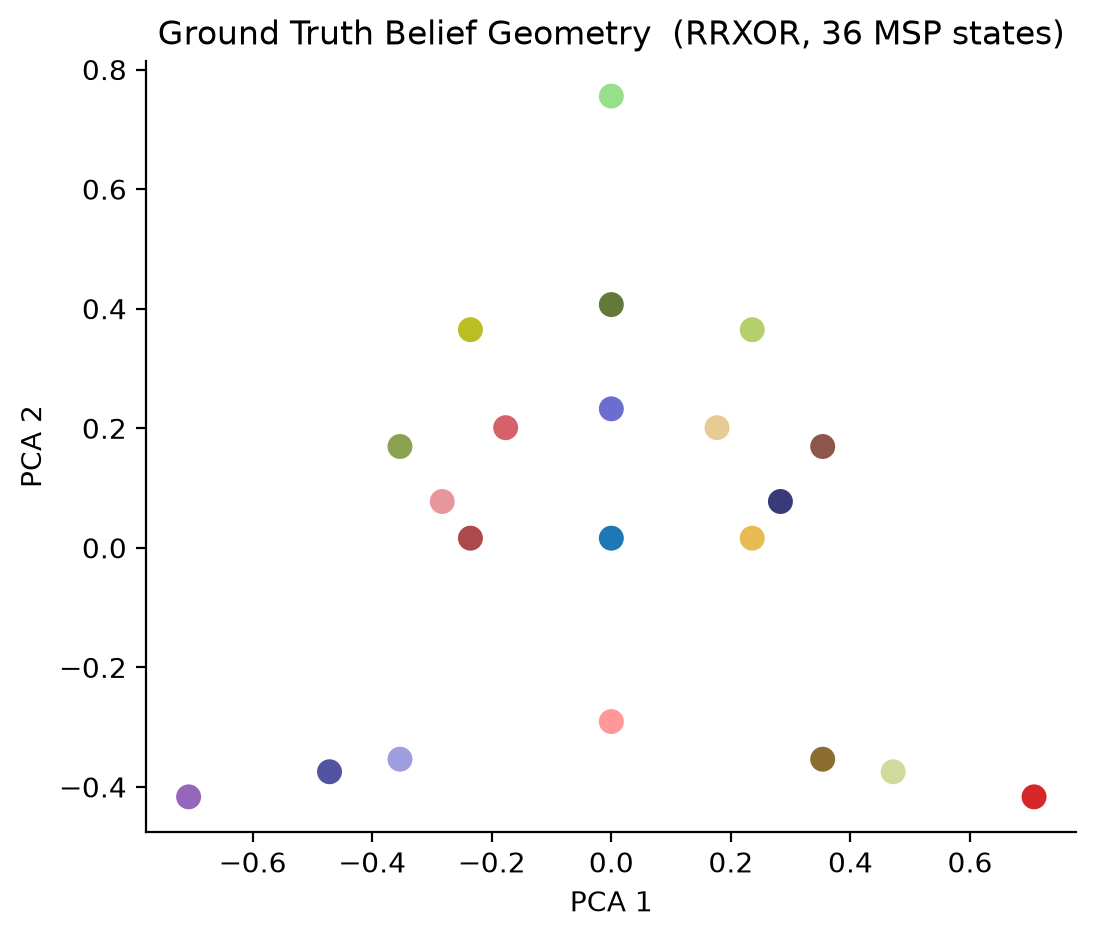
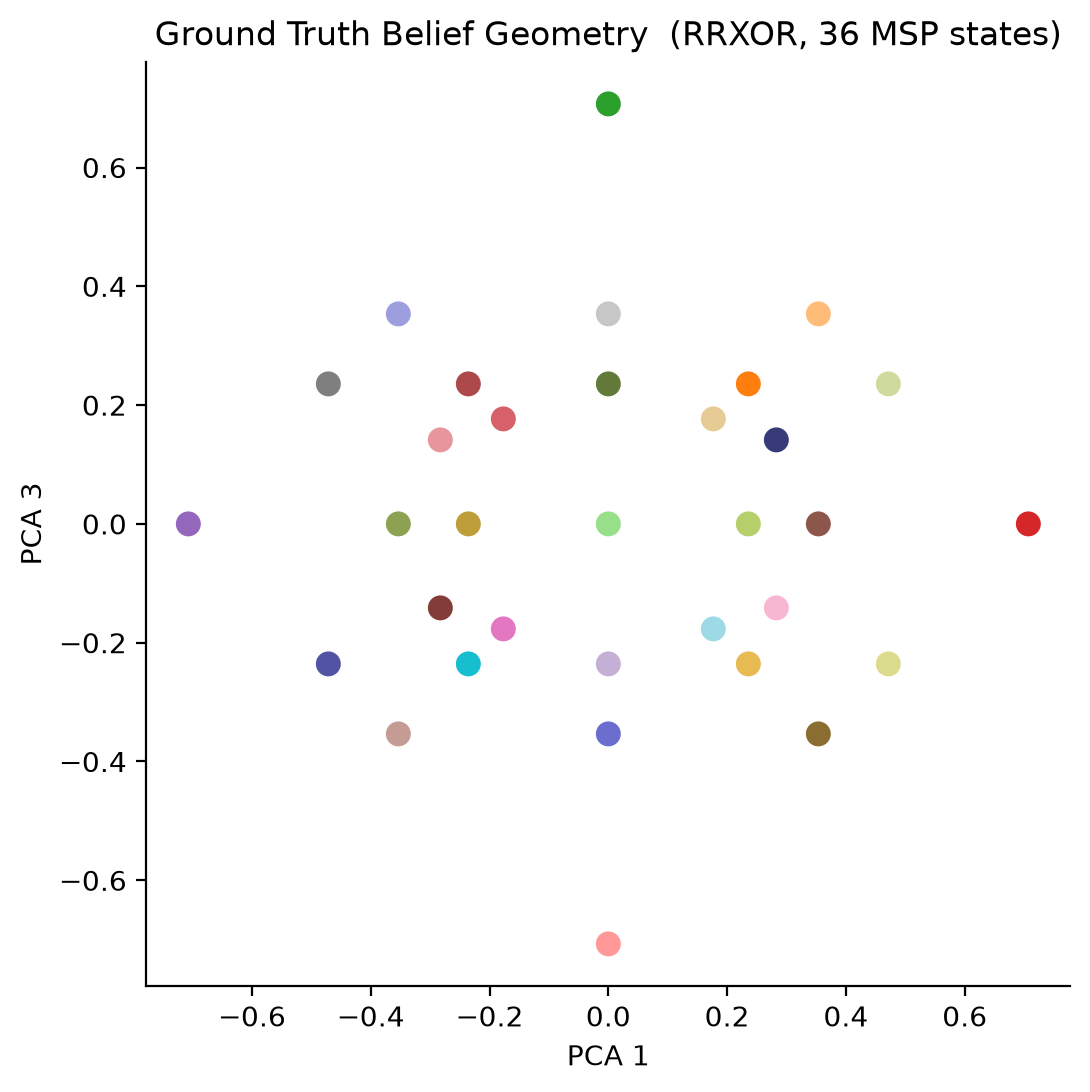
fig09: project RRXOR beliefs onto PC1/PC3 (symmetric pair), matching paper B
The beliefs were correct (verified identical to a hand-computed MSP), but I'd
plotted PC1 vs PC2 -- and PC2 is an asymmetric direction (one apex). RRXOR's
5-D beliefs PCA to variances ~0.33/0.29/0.24/0.14; the paper's symmetric
four-apex 2-D layout is the two SYMMETRIC components PC1 and PC3 (the 0<->1 /
T<->F symmetry), not PC1/PC2. Switching to PC1/PC3 reproduces the paper's
bilaterally-symmetric four-apex grid. (Minor ~0.71 vs 0.85 scale difference is a
PCA-normalization detail; structure matches.)

diff --git a/reproduction/fig09_rrxor_ground_truth.py b/reproduction/fig09_rrxor_ground_truth.py
@@ -59,14 +59,19 @@ def main():
     B, index = unique_msp_beliefs(hmm)
     print(f"RRXOR MSP unique belief states: {B.shape[0]}  (belief dim {B.shape[1]})")
 
-    pca = PCA(n_components=2).fit(B)
-    xy = pca.transform(B)
+    # The 5-D beliefs PCA to 4 non-trivial components with variances
+    # ~0.33/0.29/0.24/0.14. PC2 captures an *asymmetric* direction; the paper's
+    # symmetric four-apex 2-D view is the two SYMMETRIC components PC1 and PC3
+    # (RRXOR's 0<->1 / T<->F symmetry). Project onto those.
+    pca = PCA(n_components=4).fit(B)
+    Z = pca.transform(B)
+    xy = Z[:, [0, 2]]
     colors = distinct_colors(len(B))
 
     fig, ax = plt.subplots(figsize=(6, 6))
     ax.scatter(xy[:, 0], xy[:, 1], c=colors, s=90, edgecolors="white", linewidths=0.5)
     ax.set_title("Ground Truth Belief Geometry  (RRXOR, 36 MSP states)")
-    ax.set_xlabel("PCA 1"); ax.set_ylabel("PCA 2")
+    ax.set_xlabel("PCA 1"); ax.set_ylabel("PCA 3")
     ax.set_aspect("equal")
     ax.spines[["top", "right"]].set_visible(False)
     out = FIG_DIR / "fig09_rrxor_ground_truth.png"
